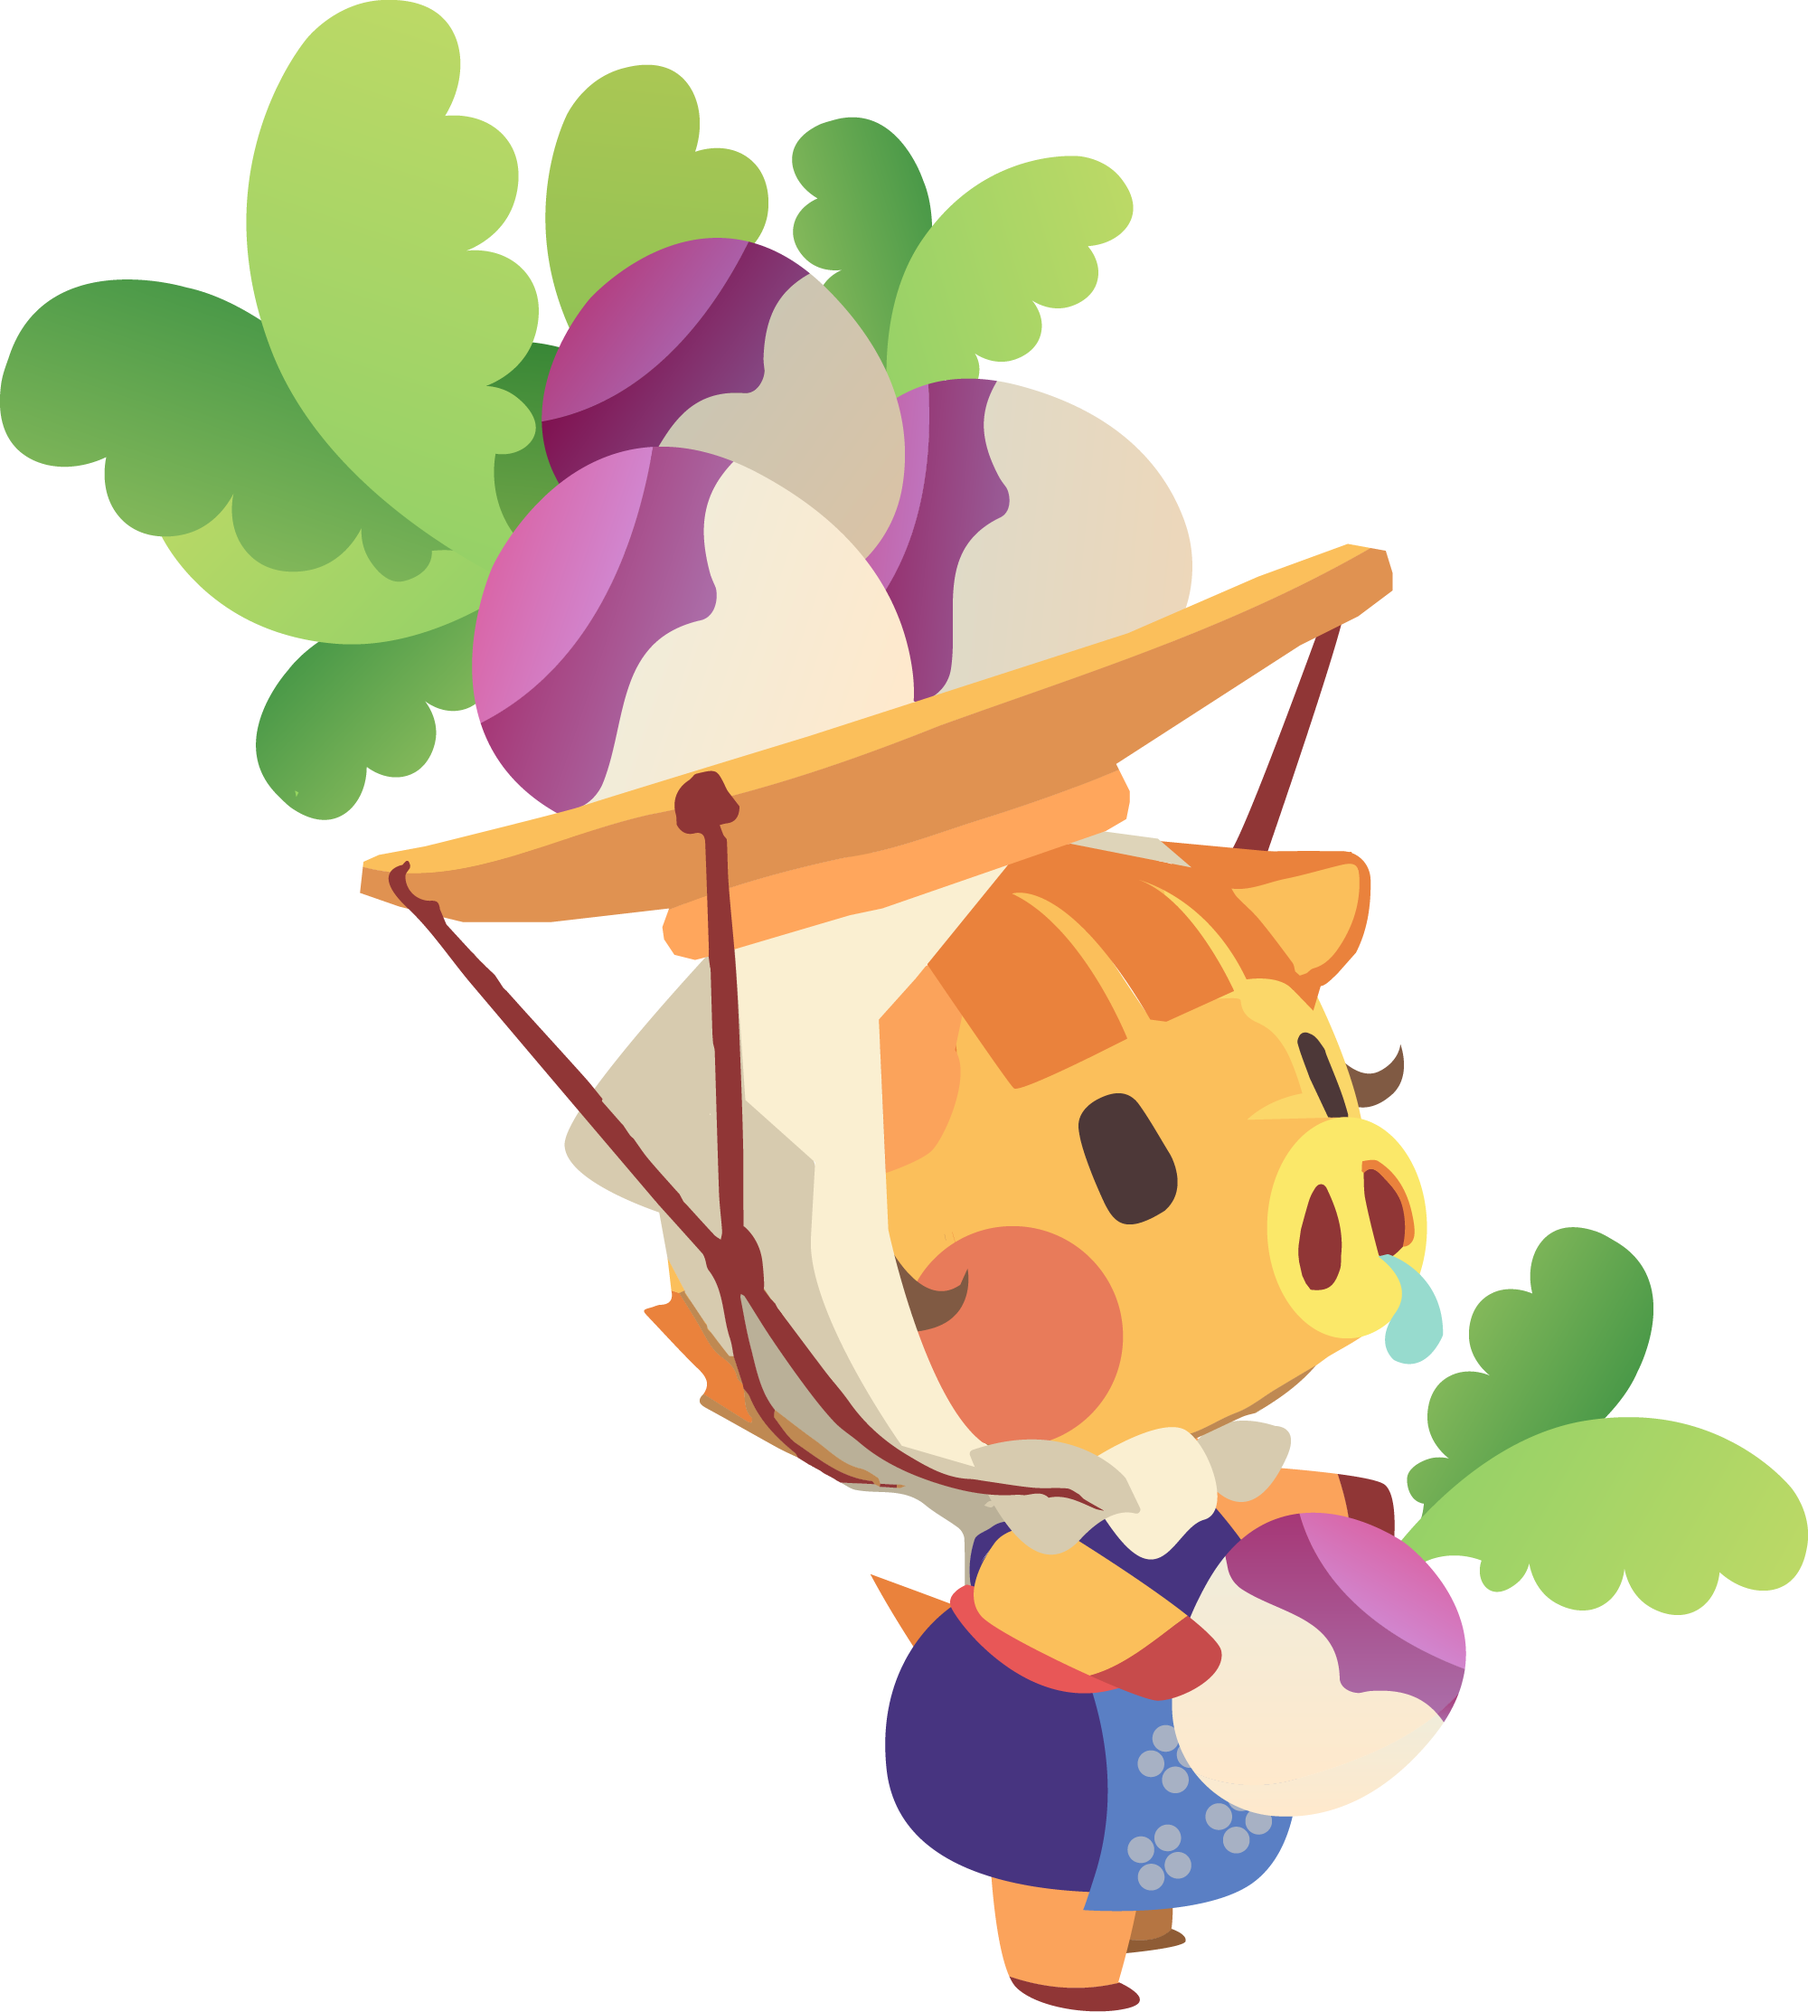
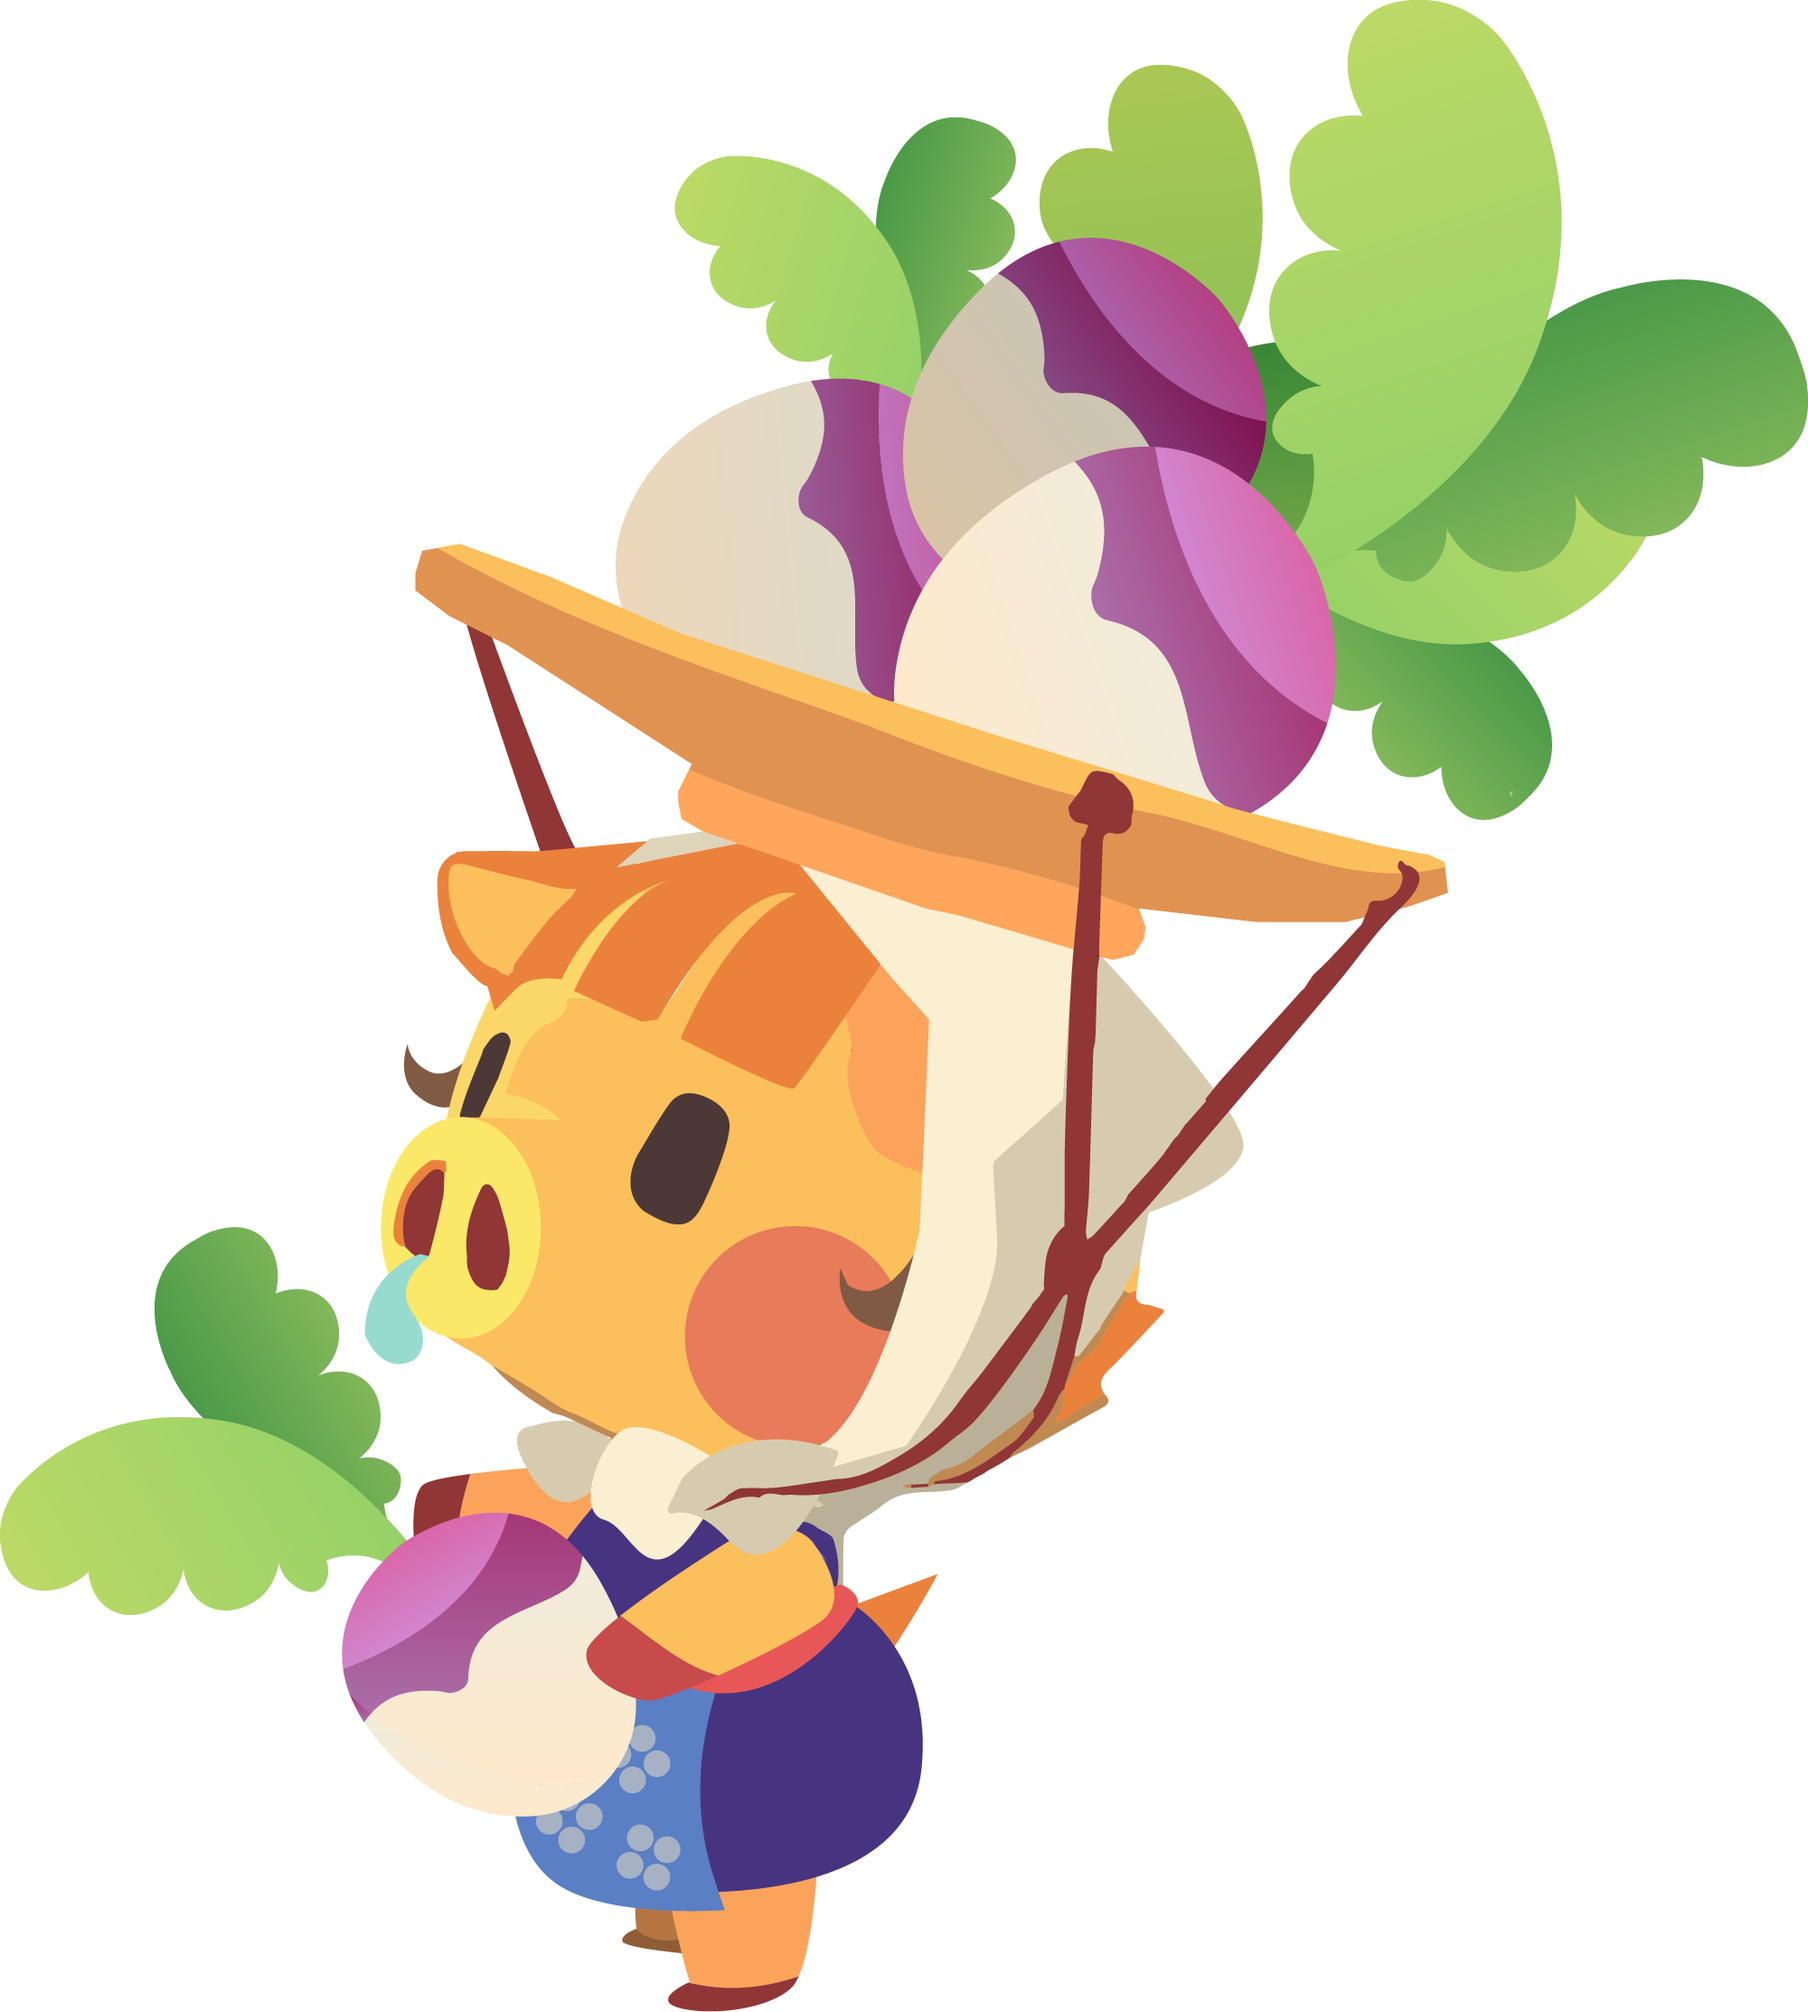
home page design update

diff --git a/static/css/main.css b/static/css/main.css
@@ -4,6 +4,10 @@ body {
   font-family: 'Quicksand', sans-serif;
 }
 
+/* ----------------
+NAVBAR
+---------------- */
+
 #navbar {
   width: 100vw;
   background-color: transparent;
@@ -61,4 +65,49 @@ li strong {
 li:first-child {
   margin-right: auto;
   margin-left: 3em;
+}
+
+/* ----------------
+HOME PAGE
+---------------- */
+.container {
+  height: 80vh;
+  display: grid;
+  grid-template-columns: 1fr 1fr;
+  justify-items: center;
+}
+
+.left {
+  place-self: center;
+}
+
+button {
+  width: 350px;
+  font-size: 1em;
+  color: #fff;
+  cursor: pointer;
+  margin-top: 20px;
+  height: 55px;
+  text-align:center;
+  border: none;
+  border-radius: 50px;
+  background: #A24C86;
+  background: -webkit-linear-gradient(left, #A24C86, #755790);
+}
+
+button:hover {
+  background: -webkit-linear-gradient(left, #755790, #A24C86);
+  background-position: 100% 0;
+  moz-transition: all .4s ease-in-out;
+  -o-transition: all .4s ease-in-out;
+  -webkit-transition: all .4s ease-in-out;
+  transition: all .4s ease-in-out;
+}
+
+.right {
+  place-self: center;
+}
+
+img {
+  max-height: 450px;
 }

diff --git a/trackerapp/templates/trackerapp/home.html b/trackerapp/templates/trackerapp/home.html
@@ -1,5 +1,12 @@
 {% extends 'trackerapp/main.html' %}
 {% load static %}
 {% block content %}
-
+  <div class="content left">
+    <h2>Keep track of your Stalk Market stock</h2>
+    <p>Log turnip prices on your island, calculate the profit you make weekly.</p>
+    <button type="button" name="button">GET STARTED</button>
+  </div>
+  <div class="content right">
+    <img src="{% static 'images/daisymae.png' %}" alt="">
+  </div>
 {% endblock content %}
